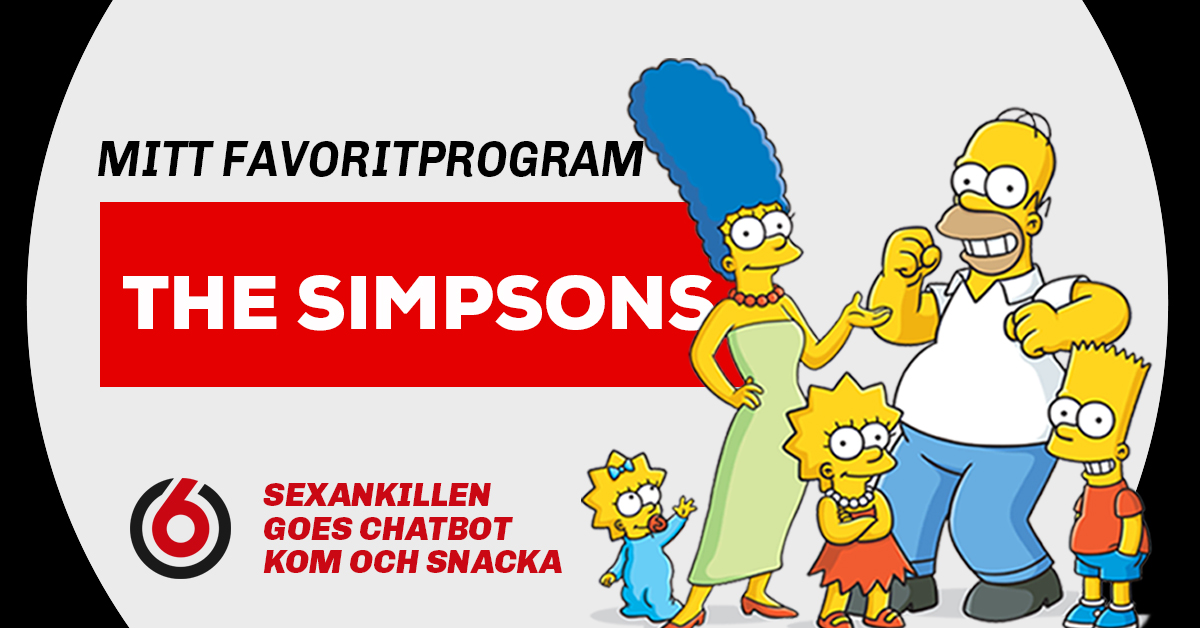
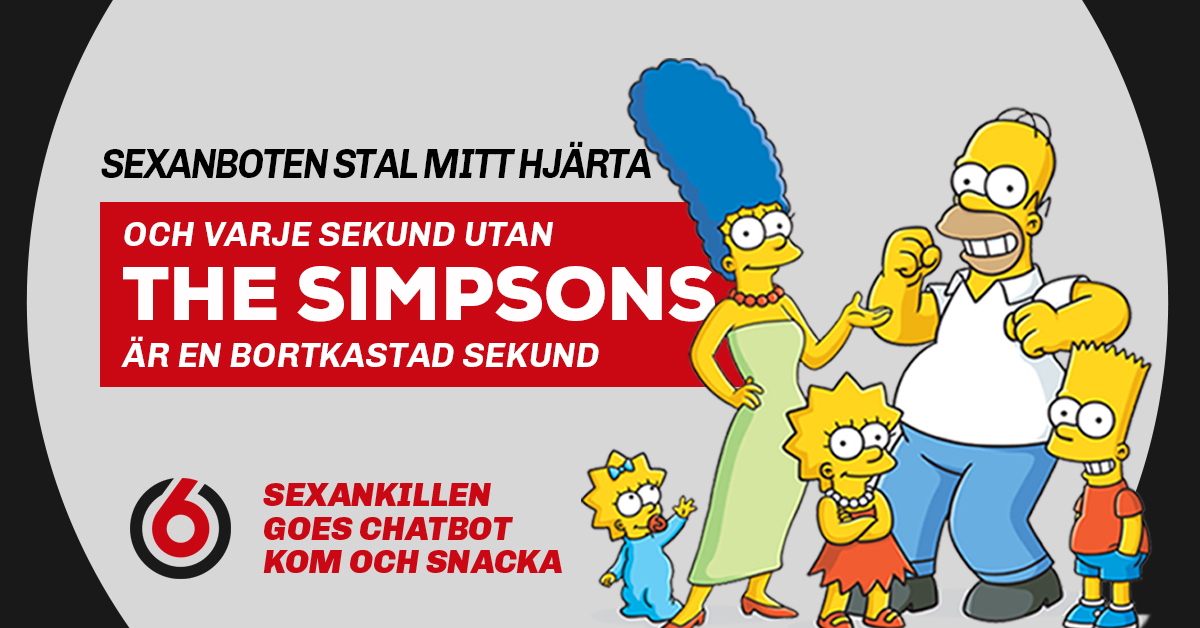
Push new images

diff --git a/howimetyourmother.html b/howimetyourmother.html
@@ -5,10 +5,9 @@
 <meta property="og:url"                content="https://www.facebook.com/tv6sverige" />
 <meta property="og:type"               content="image" />
 <meta property="og:title"              content="Snacka med Sexanboten" />
-<meta property="og:title"              content="Sexankillen, nu som chat ...bot" />
-<meta property="og:description"        content="Kom in i den digitala värmen och snacka en stund" />
-<meta property="og:image"              content="https://elviskasa.github.io/share_image/simpsons.jpg" />
-<title>Simpsons</title>
+<meta property="og:description"        content="Kom igen nu. Det blir kul, tummis." />
+<meta property="og:image"              content="https://elviskasa.github.io/share_image/howimetyourmother.jpg" />
+<title>How I met your mother</title>
 </head>
 <body>
 <script type="text/javascript">

diff --git a/lethalweapon.html b/lethalweapon.html
@@ -5,10 +5,9 @@
 <meta property="og:url"                content="https://www.facebook.com/tv6sverige" />
 <meta property="og:type"               content="image" />
 <meta property="og:title"              content="Snacka med Sexanboten" />
-<meta property="og:title"              content="Sexankillen, nu som chat ...bot" />
-<meta property="og:description"        content="Kom in i den digitala värmen och snacka en stund" />
-<meta property="og:image"              content="https://elviskasa.github.io/share_image/simpsons.jpg" />
-<title>Simpsons</title>
+<meta property="og:description"        content="Du kanske också vill ha en trevlig chatstund?" />
+<meta property="og:image"              content="https://elviskasa.github.io/share_image/lethalweapon.jpg" />
+<title>Lethal Weapon</title>
 </head>
 <body>
 <script type="text/javascript">

diff --git a/family-guy.html b/family-guy.html
@@ -5,10 +5,9 @@
 <meta property="og:url"                content="https://www.facebook.com/tv6sverige" />
 <meta property="og:type"               content="image" />
 <meta property="og:title"              content="Snacka med Sexanboten" />
-<meta property="og:title"              content="Sexankillen, nu som chat ...bot" />
-<meta property="og:description"        content="Kom in i den digitala värmen och snacka en stund" />
-<meta property="og:image"              content="https://elviskasa.github.io/share_image/simpsons.jpg" />
-<title>Simpsons</title>
+<meta property="og:description"        content="Du kanske också vill ha en trevlig chatstund?" />
+<meta property="og:image"              content="https://elviskasa.github.io/share_image/family-guy.jpg" />
+<title>Family Guy</title>
 </head>
 <body>
 <script type="text/javascript">

diff --git a/sonofzorn.html b/sonofzorn.html
@@ -5,10 +5,9 @@
 <meta property="og:url"                content="https://www.facebook.com/tv6sverige" />
 <meta property="og:type"               content="image" />
 <meta property="og:title"              content="Snacka med Sexanboten" />
-<meta property="og:title"              content="Sexankillen, nu som chat ...bot" />
-<meta property="og:description"        content="Kom in i den digitala värmen och snacka en stund" />
-<meta property="og:image"              content="https://elviskasa.github.io/share_image/simpsons.jpg" />
-<title>Simpsons</title>
+<meta property="og:description"        content="Du kanske också vill ha en trevlig chatstund?" />
+<meta property="og:image"              content="https://elviskasa.github.io/share_image/sonofzorn.jpg" />
+<title>Son of Zorn</title>
 </head>
 <body>
 <script type="text/javascript">

diff --git a/seinfeld.html b/seinfeld.html
@@ -5,10 +5,9 @@
 <meta property="og:url"                content="https://www.facebook.com/tv6sverige" />
 <meta property="og:type"               content="image" />
 <meta property="og:title"              content="Snacka med Sexanboten" />
-<meta property="og:title"              content="Sexankillen, nu som chat ...bot" />
-<meta property="og:description"        content="Kom in i den digitala värmen och snacka en stund" />
-<meta property="og:image"              content="https://elviskasa.github.io/share_image/simpsons.jpg" />
-<title>Simpsons</title>
+<meta property="og:description"        content="Han känner sig lite ensam i cyberrymden" />
+<meta property="og:image"              content="https://elviskasa.github.io/share_image/seinfeld.jpg" />
+<title>Seinfeld</title>
 </head>
 <body>
 <script type="text/javascript">

diff --git a/grimm.html b/grimm.html
@@ -5,10 +5,9 @@
 <meta property="og:url"                content="https://www.facebook.com/tv6sverige" />
 <meta property="og:type"               content="image" />
 <meta property="og:title"              content="Snacka med Sexanboten" />
-<meta property="og:title"              content="Sexankillen, nu som chat ...bot" />
-<meta property="og:description"        content="Kom in i den digitala värmen och snacka en stund" />
-<meta property="og:image"              content="https://elviskasa.github.io/share_image/simpsons.jpg" />
-<title>Simpsons</title>
+<meta property="og:description"        content="Han känner sig lite ensam i cyberrymden" />
+<meta property="og:image"              content="https://elviskasa.github.io/share_image/grimm.jpg" />
+<title>Grimm</title>
 </head>
 <body>
 <script type="text/javascript">

diff --git a/stargate.html b/stargate.html
@@ -5,10 +5,9 @@
 <meta property="og:url"                content="https://www.facebook.com/tv6sverige" />
 <meta property="og:type"               content="image" />
 <meta property="og:title"              content="Snacka med Sexanboten" />
-<meta property="og:title"              content="Sexankillen, nu som chat ...bot" />
-<meta property="og:description"        content="Kom in i den digitala värmen och snacka en stund" />
-<meta property="og:image"              content="https://elviskasa.github.io/share_image/simpsons.jpg" />
-<title>Simpsons</title>
+<meta property="og:description"        content="Kom igen nu. Det blir kul, tummis." />
+<meta property="og:image"              content="https://elviskasa.github.io/share_image/stargate.jpg" />
+<title>Stargate</title>
 </head>
 <body>
 <script type="text/javascript">

diff --git a/brooklyn.html b/brooklyn.html
@@ -4,11 +4,10 @@
 <meta charset="UTF-8">
 <meta property="og:url"                content="https://www.facebook.com/tv6sverige" />
 <meta property="og:type"               content="image" />
-<meta property="og:title"              content="Snacka med Sexanboten" />
 <meta property="og:title"              content="Sexankillen, nu som chat ...bot" />
 <meta property="og:description"        content="Kom in i den digitala värmen och snacka en stund" />
-<meta property="og:image"              content="https://elviskasa.github.io/share_image/simpsons.jpg" />
-<title>Simpsons</title>
+<meta property="og:image"              content="https://elviskasa.github.io/share_image/brooklyn.jpg" />
+<title>Brooklyn Nine-Nine</title>
 </head>
 <body>
 <script type="text/javascript">

diff --git a/twoandahalfmen.html b/twoandahalfmen.html
@@ -5,8 +5,7 @@
 <meta property="og:url"                content="https://www.facebook.com/tv6sverige" />
 <meta property="og:type"               content="image" />
 <meta property="og:title"              content="Snacka med Sexanboten" />
-<meta property="og:title"              content="Sexankillen, nu som chat ...bot" />
-<meta property="og:description"        content="Kom in i den digitala värmen och snacka en stund" />
+<meta property="og:description"        content="Jag tog testet och det här är min favorit show. Vill du veta vilken som är din?" />
 <meta property="og:image"              content="https://elviskasa.github.io/share_image/simpsons.jpg" />
 <title>Simpsons</title>
 </head>

diff --git a/vampirediaries.html b/vampirediaries.html
@@ -5,8 +5,7 @@
 <meta property="og:url"                content="https://www.facebook.com/tv6sverige" />
 <meta property="og:type"               content="image" />
 <meta property="og:title"              content="Snacka med Sexanboten" />
-<meta property="og:title"              content="Sexankillen, nu som chat ...bot" />
-<meta property="og:description"        content="Kom in i den digitala värmen och snacka en stund" />
+<meta property="og:description"        content="Jag tog testet och det här är min favorit show. Vill du veta vilken som är din?" />
 <meta property="og:image"              content="https://elviskasa.github.io/share_image/simpsons.jpg" />
 <title>Simpsons</title>
 </head>
